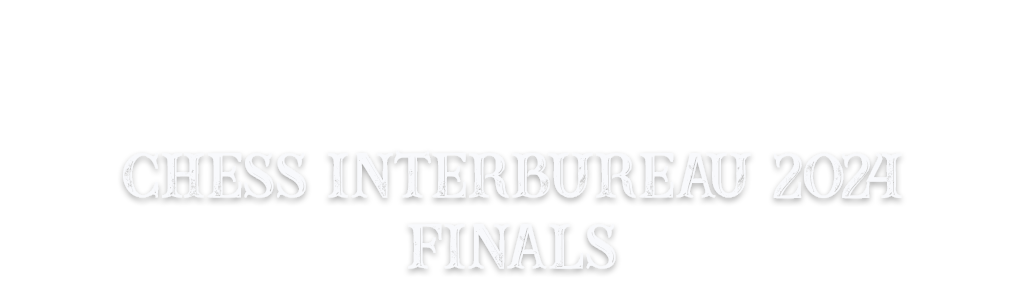
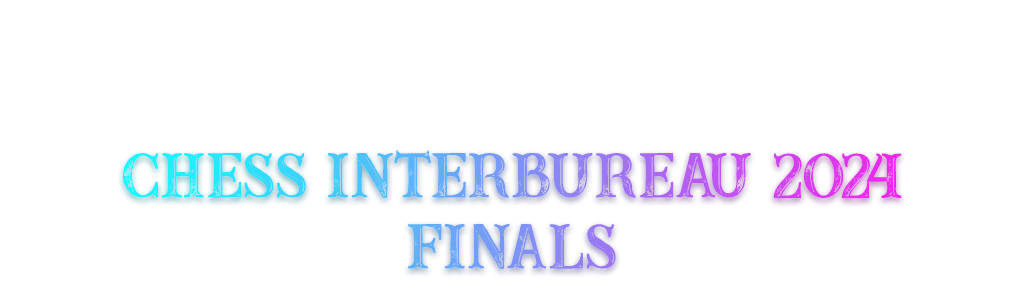
finalize content

Changed region(s): [[0.0938, 0.51, 0.9062, 0.69], [0.375, 0.72, 0.625, 0.9]]

diff --git a/public/index.html b/public/index.html
@@ -19,7 +19,7 @@
     <main>
       <section class="hero">
         <div class="hero-content">
-          <img class="top-header" src="images/header-top-1.png">
+          <img class="top-header" src="images/header-top-2.png">
           <div id="countdown">
             <div class="time-box">
               <span id="jsDays">0</span>
@@ -41,7 +41,7 @@
         </div>
       </section>
       <section class="schedule">
-        <img src="images/Semifinals Schedule_5.jpg">
+        <img src="images/Finals Schedule.jpg">
       </section>
       <section class="crossover">
         <div class="left-crossover">
@@ -50,8 +50,8 @@
             <div class="container">
               <h1>Champion</h1>
               <div class="team-upper">
-                <div class="team-logo"></div>
-                <div class="team-name">Winner Final Bracket</div>
+                <div class="team-logo"><img src="images/denr logo.png" alt="NCR Logo"></div>
+                <div class="team-name">NCR / PRCMO</div>
               </div>
             </div>
           </div>
@@ -62,13 +62,13 @@
                 <div class="team-upper">
                   <div class="team-logo"><img src="images/mgb-logo.png" alt="MGB Logo"></div>
                   <div class="team-name">(1) MGB</div>
-                  <div class="team-score"></div>
+                  <div class="team-score">3.5</div>
                 </div>
                 <div class="spacer"></div>
                 <div class="team-lower">
                   <div class="team-logo"><img src="images/llda-logo.png" alt="LLDA Logo"></div>
                   <div class="team-name">(4) LLDA</div>
-                  <div class="team-score"></div>
+                  <div class="team-score">0.5</div>
                 </div>
               </div>
             </div>
@@ -78,15 +78,15 @@
               <div class="container">
                 <h1>Finals</h1>
                 <div class="team-upper">
-                  <div class="team-logo"></div>
-                  <div class="team-name">Winner A</div>
-                  <div class="team-score"></div>
+                  <div class="team-logo"><img src="images/mgb-logo.png" alt="MGB Logo"></div>
+                  <div class="team-name">(1) MGB</div>
+                  <div class="team-score">0</div>
                 </div>
                 <div class="spacer"></div>
                 <div class="team-lower">
-                  <div class="team-logo"></div>
-                  <div class="team-name">Winner B</div>
-                  <div class="team-score"></div>
+                  <div class="team-logo"><img src="images/denr logo.png" alt="NCR Logo"></div>
+                  <div class="team-name">(2) NCR</div>
+                  <div class="team-score">4</div>
                 </div>
               </div>
             </div>
@@ -98,13 +98,13 @@
                 <div class="team-upper">
                   <div class="team-logo"><img src="images/denr logo.png" alt="NCR Logo"></div>
                   <div class="team-name">(2) NCR</div>
-                  <div class="team-score"></div>
+                  <div class="team-score">2.5</div>
                 </div>
                 <div class="spacer"></div>
                 <div class="team-lower">
                   <div class="team-logo"><img src="images/namria-logo.png" alt="NAMRIA Logo"></div>
                   <div class="team-name">(3) NAMRIA</div>
-                  <div class="team-score"></div>
+                  <div class="team-score">1.5</div>
                 </div>
               </div>
             </div>
@@ -113,15 +113,15 @@
               <div class="container">
                 <h1>Battle for 3rd</h1>
                 <div class="team-upper">
-                  <div class="team-logo"></div>
-                  <div class="team-name">Loser A</div>
-                  <div class="team-score"></div>
+                  <div class="team-logo"><img src="images/llda-logo.png" alt="LLDA Logo"></div>
+                  <div class="team-name">(4) LLDA</div>
+                  <div class="team-score">0</div>
                 </div>
                 <div class="spacer"></div>
                 <div class="team-lower">
-                  <div class="team-logo"></div>
-                  <div class="team-name">Loser A</div>
-                  <div class="team-score"></div>
+                  <div class="team-logo"><img src="images/namria-logo.png" alt="NAMRIA Logo"></div>
+                  <div class="team-name">(3) NAMRIA</div>
+                  <div class="team-score">4</div>
                 </div>
               </div>
             </div>
@@ -133,8 +133,8 @@
                 <div class="container">
                   <h1>Champion</h1>
                   <div class="team-upper">
-                    <div class="team-logo"></div>
-                    <div class="team-name">Winner Final Bracket</div>
+                    <div class="team-logo"><img src="images/mgb-logo.png" alt="NCR Logo"></div>
+                    <div class="team-name">MGB</div>
                   </div>
                 </div>
               </div>
@@ -145,13 +145,13 @@
                   <div class="team-upper">
                     <div class="team-logo"><img src="images/denr logo.png" alt="MGB Logo"></div>
                     <div class="team-name">(1) NCR</div>
-                    <div class="team-score"></div>
+                    <div class="team-score">3</div>
                   </div>
                   <div class="spacer"></div>
                   <div class="team-lower">
                     <div class="team-logo"><img src="images/namria-logo.png" alt="LLDA Logo"></div>
                     <div class="team-name">(4) NAMRIA</div>
-                    <div class="team-score"></div>
+                    <div class="team-score">1</div>
                   </div>
                 </div>
               </div>
@@ -161,15 +161,15 @@
                 <div class="container">
                   <h1>Finals</h1>
                   <div class="team-upper">
-                    <div class="team-logo"></div>
-                    <div class="team-name">Winner A</div>
-                    <div class="team-score"></div>
+                    <div class="team-logo"><img src="images/denr logo.png" alt="MGB Logo"></div>
+                    <div class="team-name">(1) NCR</div>
+                    <div class="team-score">1</div>
                   </div>
                   <div class="spacer"></div>
                   <div class="team-lower">
-                    <div class="team-logo"></div>
-                    <div class="team-name">Winner B</div>
-                    <div class="team-score"></div>
+                    <div class="team-logo"><img src="images/mgb-logo.png" alt="NCR Logo"></div>
+                    <div class="team-name">(2) MGB</div>
+                    <div class="team-score">3</div>
                   </div>
                 </div>
               </div>
@@ -181,13 +181,13 @@
                   <div class="team-upper">
                     <div class="team-logo"><img src="images/mgb-logo.png" alt="NCR Logo"></div>
                     <div class="team-name">(2) MGB</div>
-                    <div class="team-score"></div>
+                    <div class="team-score">3</div>
                   </div>
                   <div class="spacer"></div>
                   <div class="team-lower">
                     <div class="team-logo"><img src="images/denr logo.png" alt="NAMRIA Logo"></div>
                     <div class="team-name">(3) OSEC</div>
-                    <div class="team-score"></div>
+                    <div class="team-score">1</div>
                   </div>
                 </div>
               </div>
@@ -195,15 +195,15 @@
                 <div class="container">
                 <h1>Battle for 3rd</h1>
                   <div class="team-upper">
-                    <div class="team-logo"></div>
-                    <div class="team-name">Loser A</div>
-                    <div class="team-score"></div>
+                    <div class="team-logo"><img src="images/namria-logo.png" alt="LLDA Logo"></div>
+                    <div class="team-name">(4) NAMRIA</div>
+                    <div class="team-score">3</div>
                   </div>
                   <div class="spacer"></div>
                   <div class="team-lower">
-                    <div class="team-logo"></div>
-                    <div class="team-name">Loser B</div>
-                    <div class="team-score"></div>
+                    <div class="team-logo"><img src="images/denr logo.png" alt="NAMRIA Logo"></div>
+                    <div class="team-name">(3) OSEC</div>
+                    <div class="team-score">1</div>
                   </div>
                 </div>
               </div>

diff --git a/public/css/style.css b/public/css/style.css
@@ -58,7 +58,6 @@ body {
 .header-logo img{
   width: 50px;
   height: 50px;
-  filter: grayscale(100%);
 }
 
 .hero {
@@ -90,7 +89,6 @@ body {
   padding: 10px;
   text-align: center;
   margin-bottom: 10vh;
-  filter: grayscale(100%);
 }
 
 .schedule img{
@@ -111,6 +109,7 @@ body {
 .time-box span {
   font-size: 8vw; /* Large, responsive font size */
   display: block;
+  color: magenta;
 }
 
 .time-box p {
@@ -118,6 +117,7 @@ body {
   margin-top: 0.5rem;
   text-transform: uppercase;
   letter-spacing: 0.1em;
+  color: cyan;
 }
 
 .custom-link-btn {
@@ -155,8 +155,7 @@ body {
   display: flex;          /* Set the container to use flexbox */
   justify-content: space-between;  /* Space out the child elements */
   align-items: center;    /* Vertically align the elements */
-  width: 100%;   
-  background-color: var(--black);
+  width: 100%;
   margin-bottom: 10vh; 
 }
 
@@ -164,12 +163,14 @@ body {
   flex: 1;                /* Left crossover takes up available space */
   padding: 10px;
   margin-bottom: 10vh;
+  background: linear-gradient(45deg, var(--black), var(--red));
 }
 
 .right-crossover {
   flex: 1;                /* Right crossover takes up available space */
   padding: 10px;
   margin-bottom: 10vh;
+  background: linear-gradient(45deg, var(--black), var(--gold));
 }
 
 .crossover-header{
@@ -186,7 +187,7 @@ body {
   background: var(--white);
   border-radius: 8px;
   padding: 10px;
-  width: 50%;
+  width: 40%;
   margin-bottom: 20px;
   box-shadow: 5px 10px #888888;
 }
@@ -228,17 +229,17 @@ body {
 
 .team-name {
   font-weight: bold;
-  font-size: 14px;
+  font-size: 25px;
   flex-grow: 1;
   text-align: center;
   margin-left: 5px;
 }
 
 .team-score {
-  font-size: 12px;
+  font-size: 25px;
   color: var(--white);
   min-height: 30px;
-  width: 30px;
+  width: 50px;
   text-align: center;
   border: 3px solid var(--white);
   border-radius: 4px;
@@ -254,9 +255,22 @@ body {
 }
 
 /* Finals Highlight */
-.final-bracket .container, .bf3rd-bracket .container, .champion .container{
+.bf3rd-bracket .container, .champion .container{
   text-align: center;
   margin-left: 150px;
+}
+
+.champion .container{
+  margin-left: 350px;
+}
+
+.final-bracket .container{
+  margin-left: 350px;
+  background: linear-gradient(45deg, var(--white), var(--gold));
+}
+
+.bf3rd-bracket .container{
+  background: linear-gradient(45deg, var(--white),var(--red));
 }
 
 .champion .team-upper{
@@ -285,10 +299,6 @@ body {
   color: var(--white);
   text-align: center;
   padding: 1rem;
-}
-
-img{
-  filter: grayscale(100%);
 }
 
 /* Responsive Design */

diff --git a/public/scripts/script.js b/public/scripts/script.js
@@ -1,5 +1,5 @@
 // Target date and time: November 26, 2024, 9:30 AM
-const targetDate = new Date("November 26, 2024 09:30:00").getTime();
+const targetDate = new Date("November 28, 2024 09:30:00").getTime();
 
 // Update the countdown every second
 const countdownInterval = setInterval(() => {
